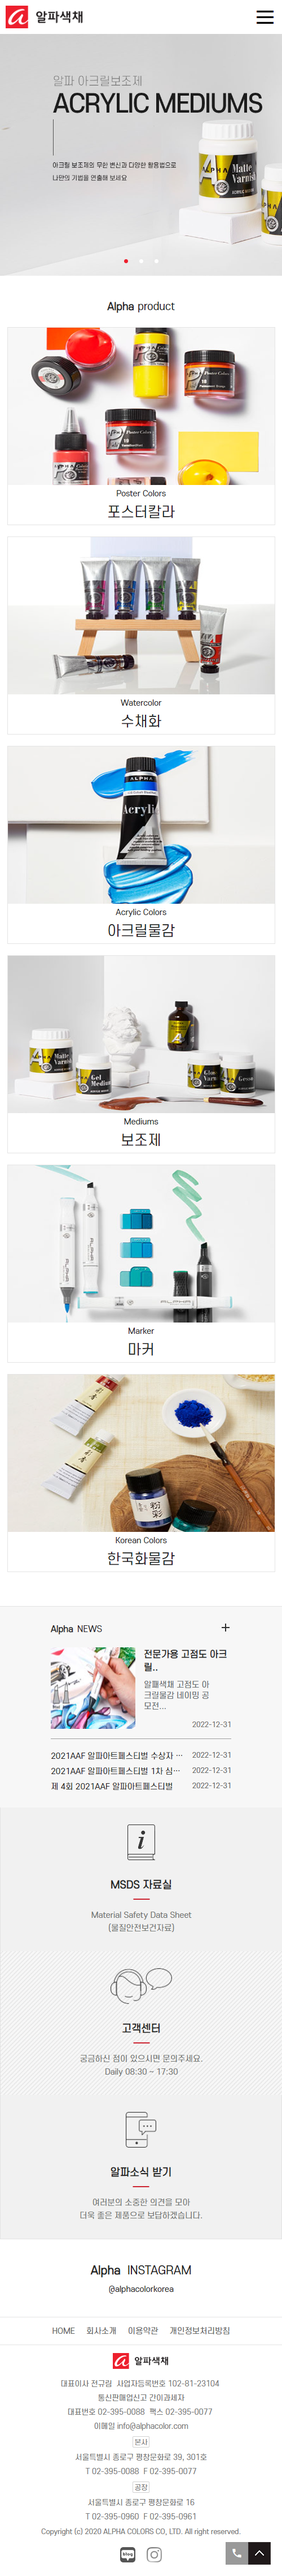
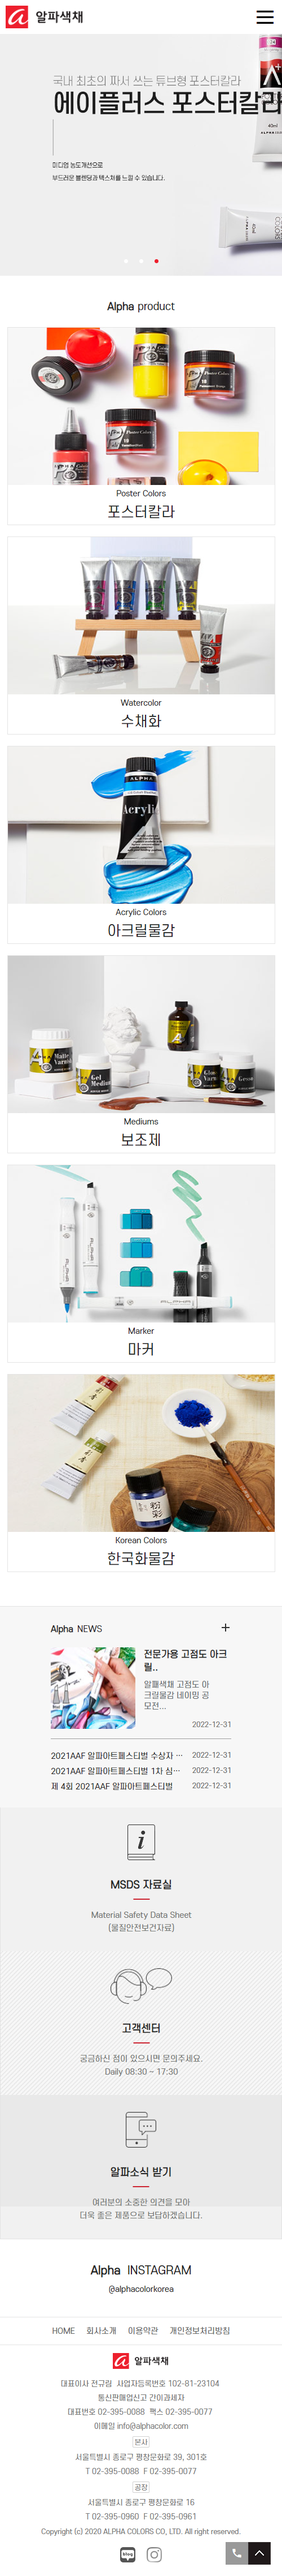
Update: Alpha Mobile Image Update & MainItem

Changed region(s): [[0.0, 0.0, 1.0, 0.1248]]

diff --git a/src/assets/scss/components/common/MainItem.scss b/src/assets/scss/components/common/MainItem.scss
@@ -1,11 +1,11 @@
 .itemWrap{
-    position: absolute; left: 0; top: 0rem; width: 100vw; height: 100vh; overflow-y: auto;
+    position: absolute; left: 0; top: 0rem; width: 100vw; height: 100vh; overflow-y: auto; 
     background: #f7f7f7; z-index: 9990; 
     &Inner{
-        width: 100%; min-height: 100%; 
+        width: 100%; min-height: 100%;
         display: flex; justify-content: center; align-items: center; flex-direction: column;
         &Info{
-            width: 65rem; margin-top: 15rem;
+            width: 65rem; margin: 10rem 0 0;
             &Image{
                 margin-bottom: 4rem; text-align: center;
                 & > div{
@@ -107,9 +107,9 @@
                         }
                     }
                     &Link{
-                        margin-top: 1rem;
-                        span{
-                            margin-right: 1rem;
+                        margin-top: 1rem; font-size: 0;
+                        p{
+                            margin-right: 1rem; display: inline-block;
                             font-size: 1.5rem; color: #000; font-weight: bold;
                         }
                         a{
@@ -129,7 +129,7 @@
             
         }
         &Image{
-            width: 125rem; margin: 6rem auto ;
+            width: 125rem; padding: 5rem 0;
             position: relative; 
             .pcShadow{
                 position: relative; max-width: 100rem; width: 80%; margin: 0 auto; overflow-y: hidden;
@@ -141,11 +141,11 @@
                 }
             }
             .mobileShadow{
-                position: absolute; left: 0; bottom: 0; overflow-y: hidden;
-                width: 24rem; height: 80%; max-height: 42rem; background: #fff;
+                position: absolute; left: 1rem; bottom: 5rem; overflow-y: hidden;
+                width: 24rem; padding: 17% 0; background: #fff;
                 border: 10px solid #000; border-radius :3rem;
                 img{
-                    width: 100%;
+                    position: absolute; width: 100%; left: 0; top: 0;
                 }
             }
         }
@@ -198,7 +198,7 @@
     .itemWrap{
         &Inner{
             &Info{
-                width: 100%; margin-top: 5rem;
+                width: 100%;
                 &Flex{
                     flex-direction: column; align-items: center;
                     &Detail{
@@ -210,7 +210,10 @@
                 }
             }
             &Image{
-                margin: 5rem 0;
+                padding: 3rem 0 ;
+                .mobileShadow{
+                    bottom: 3rem;
+                }
             }
         }
     }

diff --git a/src/components/common/MainItem.vue b/src/components/common/MainItem.vue
@@ -30,7 +30,7 @@
                             </p>
                         </div>
                         <div class="itemWrapInnerInfoFlexTextLink">
-                            <span>바로 가기 :</span>
+                            <p>바로 가기 :</p>
                             <a
                                 v-for="(post, i) in item.posts.sites"
                                 :key="i"
